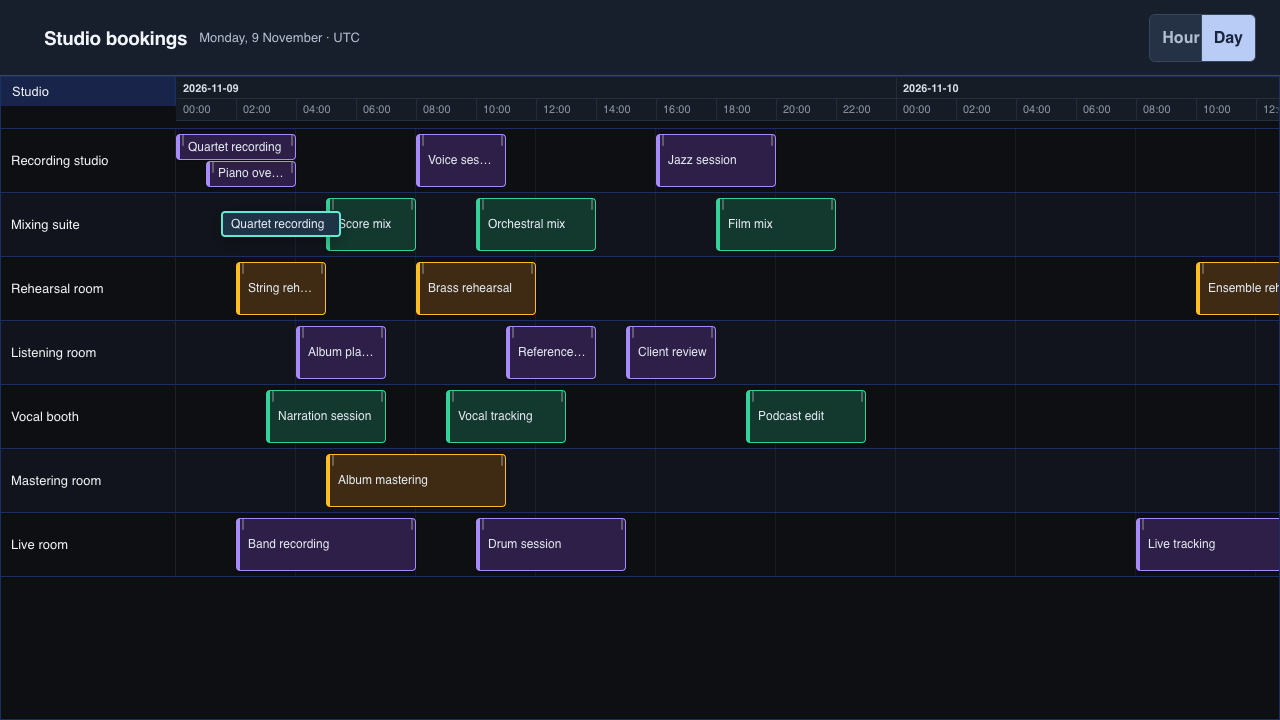
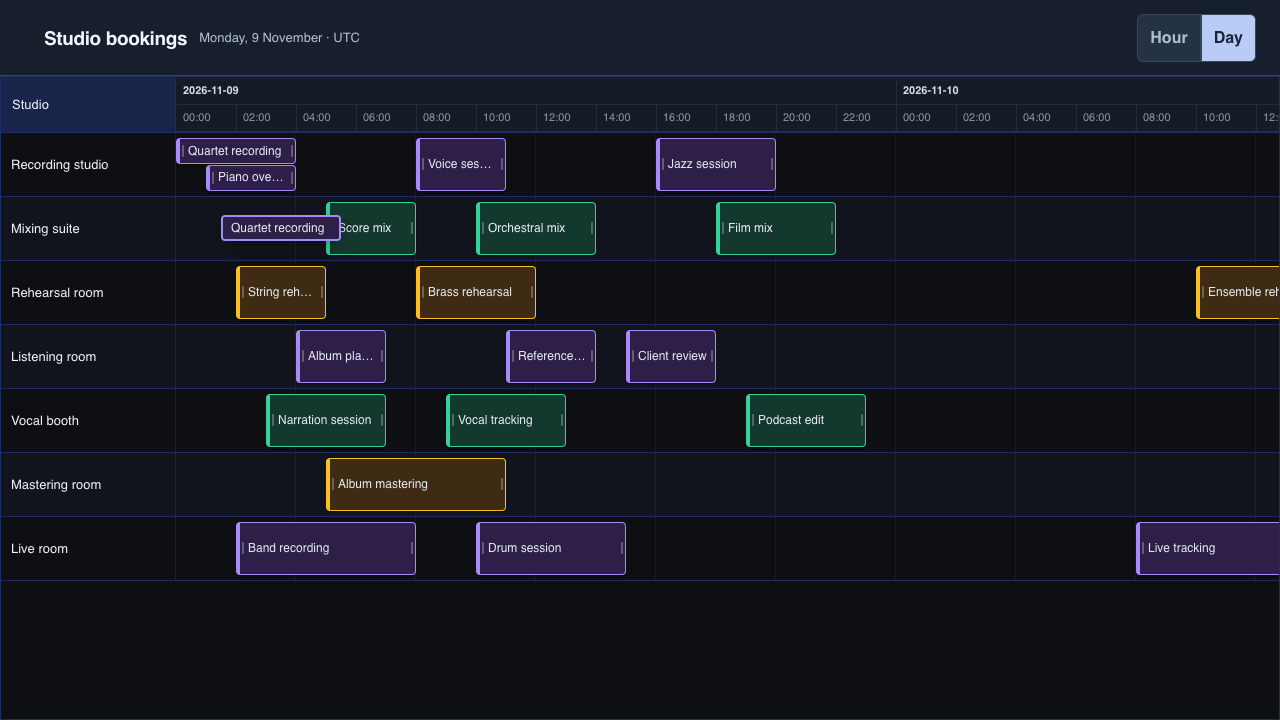
fix(scheduler): align headers, resize edges and resource drop targets (#20877)

diff --git a/resources/scss/src/scheduler/Container.scss b/resources/scss/src/scheduler/Container.scss
@@ -2,8 +2,13 @@
 .neo-scheduler {
     .neo-grid-header-toolbar {
         align-items: stretch;
-        min-height : 52px;
+        min-height : 56px;
+
+        .neo-grid-header-button { height: 100%; }
     }
+
+    .neo-timeline-header .neo-timeline-header-major,
+    .neo-timeline-header .neo-timeline-header-minor { font-size: 12px; }
 
     .neo-grid-row {
         .neo-grid-cell.neo-locked-start {
@@ -21,20 +26,21 @@
     }
 
     .neo-timeline-bar {
-        &.neo-scheduler-bar-emerald {
-            background  : var(--neo-scheduler-bar-emerald-bg);
-            border-color: var(--neo-scheduler-bar-emerald-border);
-        }
+        border-left-width: 4px;
+        font-size: 12px;
 
-        &.neo-scheduler-bar-amber {
-            background  : var(--neo-scheduler-bar-amber-bg);
-            border-color: var(--neo-scheduler-bar-amber-border);
+        .neo-timeline-bar-handle::after {
+            background: currentColor;
+            border-radius: 2px;
+            content: '';
+            height: 12px;
+            opacity: .38;
+            position: absolute;
+            top: calc(50% - 6px);
+            width: 2px;
         }
-
-        &.neo-scheduler-bar-violet {
-            background  : var(--neo-scheduler-bar-violet-bg);
-            border-color: var(--neo-scheduler-bar-violet-border);
-        }
+        .neo-resizable-start::after { left: 2px; }
+        .neo-resizable-end::after { right: 2px; }
     }
 }
 
@@ -54,6 +60,23 @@
     padding: 0 8px;
     white-space: nowrap;
     width: 100%;
+}
+
+// A proxy is mounted outside the scheduler, so both surfaces share the same variant rules.
+.neo-scheduler .neo-timeline-bar,
+.neo-scheduler-drag-preview {
+    &.neo-scheduler-bar-emerald {
+        background: var(--neo-scheduler-bar-emerald-bg);
+        border-color: var(--neo-scheduler-bar-emerald-border);
+    }
+    &.neo-scheduler-bar-amber {
+        background: var(--neo-scheduler-bar-amber-bg);
+        border-color: var(--neo-scheduler-bar-amber-border);
+    }
+    &.neo-scheduler-bar-violet {
+        background: var(--neo-scheduler-bar-violet-bg);
+        border-color: var(--neo-scheduler-bar-violet-border);
+    }
 }
 
 // Keep resource tracks available to the pointer sensor while the floating proxy stays inert.

diff --git a/resources/scss/src/examples/scheduler/basic/Viewport.scss b/resources/scss/src/examples/scheduler/basic/Viewport.scss
@@ -35,29 +35,3 @@
     .studio-zoom-first { border-radius: 6px 0 0 6px; margin-right: -12px; }
     .studio-zoom-last { border-radius: 0 6px 6px 0; }
 }
-
-.neo-scheduler {
-    .neo-grid-header-toolbar { min-height: 56px; }
-    .neo-timeline-header .neo-timeline-header-major { font-size: 12px; }
-    .neo-timeline-header .neo-timeline-header-minor { font-size: 12px; }
-    .neo-timeline-bar { border-left-width: 4px; font-size: 12px; }
-}
-
-// The drag proxy can be mounted outside the scheduler component.
-.neo-timeline-bar {
-    &.studio-booking-0 { background: var(--neo-scheduler-bar-violet-bg); border-color: var(--neo-scheduler-bar-violet-border); }
-    &.studio-booking-1 { background: var(--neo-scheduler-bar-emerald-bg); border-color: var(--neo-scheduler-bar-emerald-border); }
-    &.studio-booking-2 { background: var(--neo-scheduler-bar-amber-bg); border-color: var(--neo-scheduler-bar-amber-border); }
-    .neo-timeline-bar-handle::after {
-        background: currentColor;
-        border-radius: 2px;
-        content: '';
-        height: 12px;
-        opacity: .38;
-        position: absolute;
-        top: calc(50% - 6px);
-        width: 2px;
-    }
-    .neo-resizable-start::after { left: 2px; }
-    .neo-resizable-end::after { right: 2px; }
-}

diff --git a/resources/scss/src/timeline/Column.scss b/resources/scss/src/timeline/Column.scss
@@ -87,6 +87,7 @@
 
     .neo-timeline-bar-handle {
         bottom  : 0;
+        height  : 100%;
         position: absolute;
         top     : 0;
         width   : 6px;
